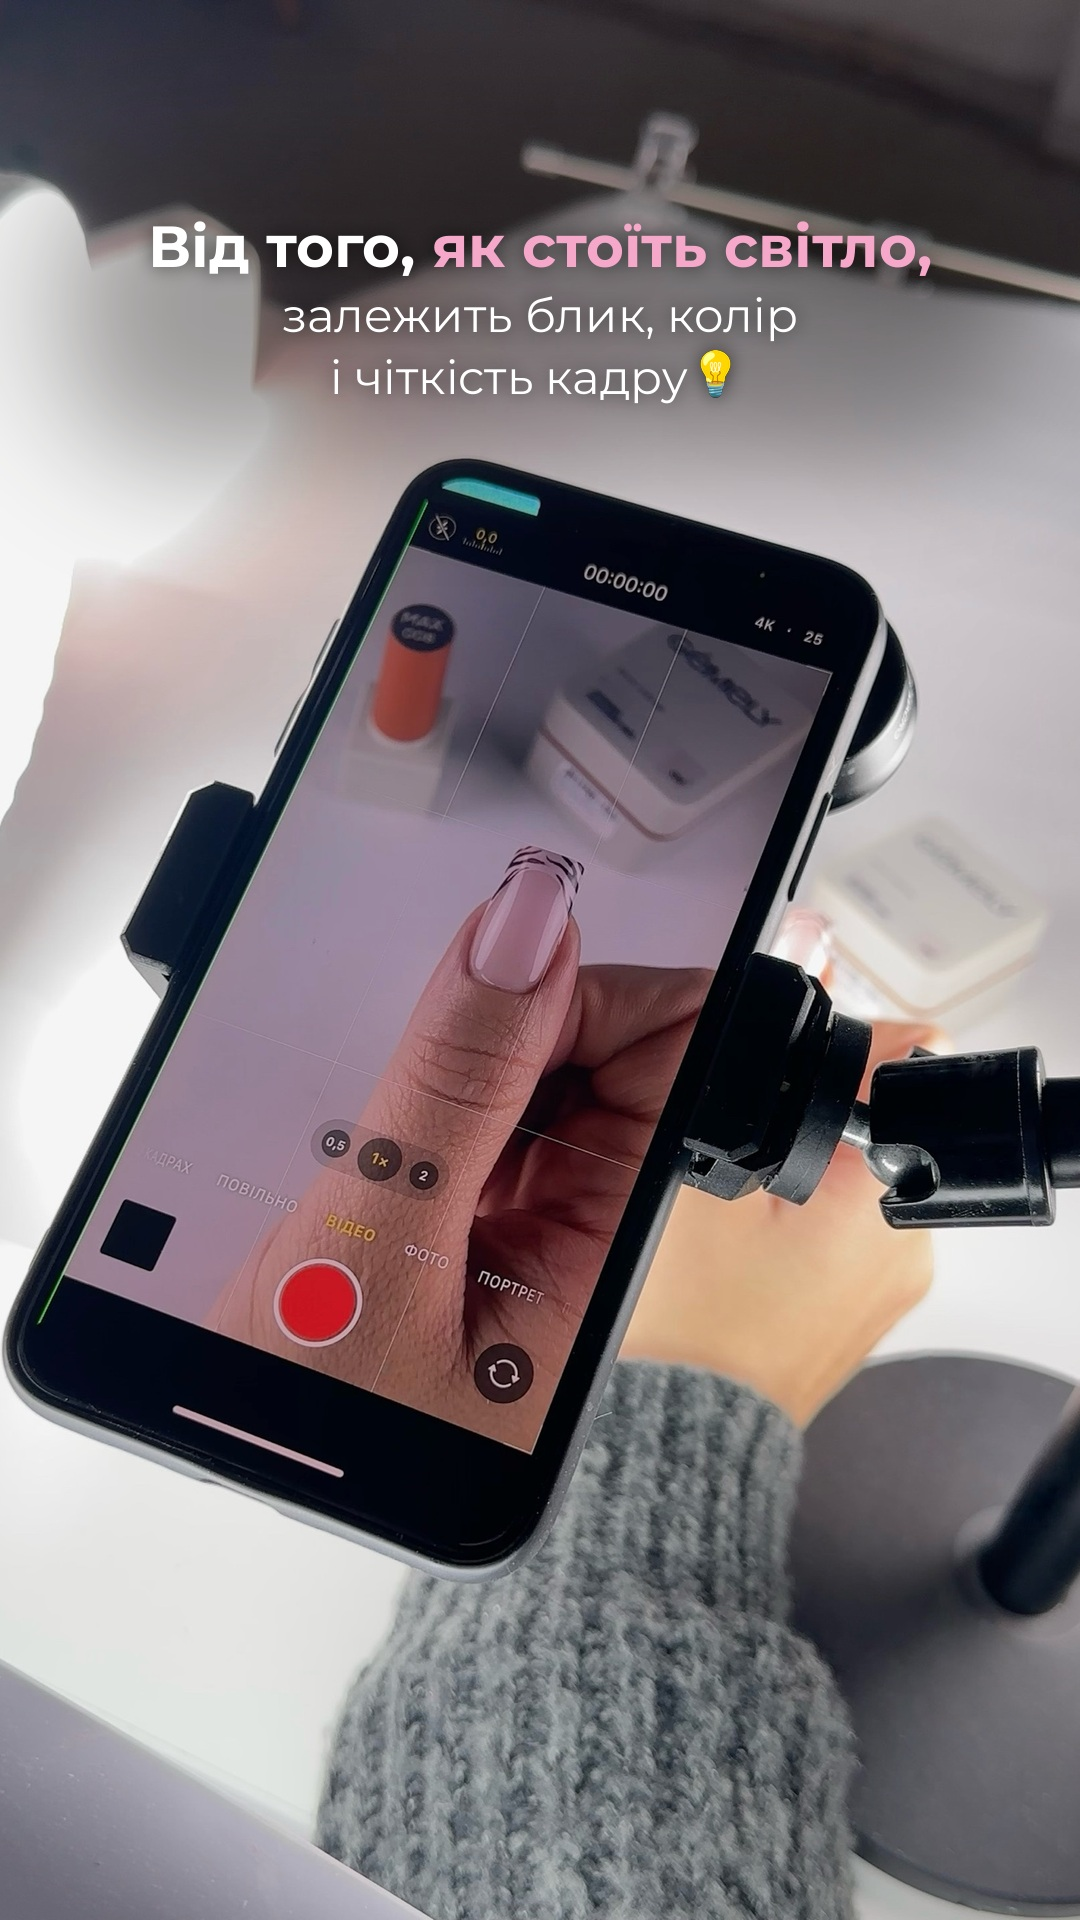
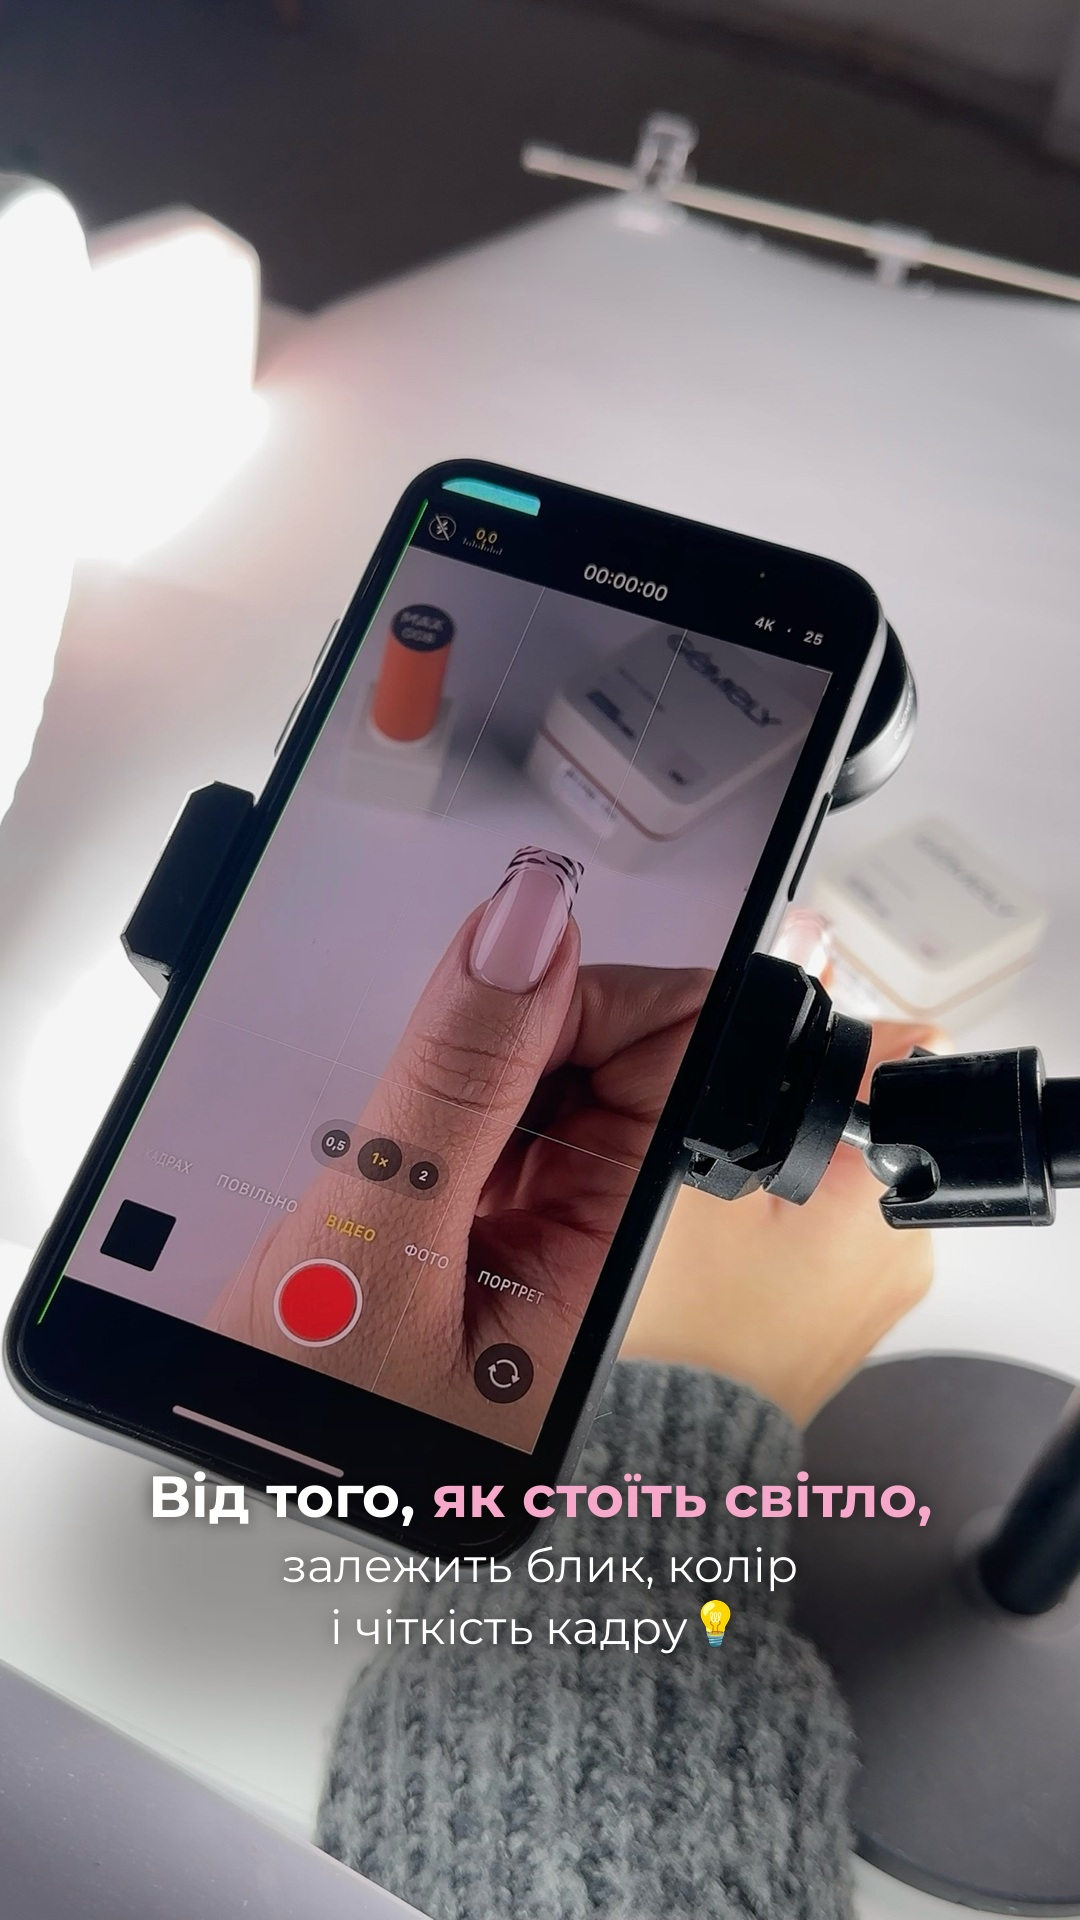
Сторітел схеми світла: перша сторі на новому фото
Claude-Session: https://claude.ai/code/session_0191xVL2hi5vHUvM1ix6pauC

Changed region(s): [[0.0, 0.0625, 0.9778, 0.2812], [0.0, 0.6875, 0.9472, 0.9062]]

diff --git a/stories/dvi_skhemy/build.py b/stories/dvi_skhemy/build.py
@@ -14,9 +14,9 @@ def block(im,y,lines,fill):
     return im
 BOLD=F(58,700); REG=F(47,400)
 # 1
-im=block(fit(f'{U}/10b2af08-image.jpg'),1470,[(1,'Що робить фото чи відео',None),(1,'манікюру *дорогим*?',None),(0,'Не лише якісно виконана робота,',None),(0,'а й правильне розташування світла','✨')],100); sv(im,1)
+im=block(fit(f'{OUT}/src_1.jpg'),165,[(1,'Що робить фото чи відео',None),(1,'манікюру *дорогим*?',None),(0,'Не лише якісно виконана робота,',None),(0,'а й правильне розташування світла','✨')],100); sv(im,1)
 # 2
-im=block(fit(f'{U}/8d6f55f4-image.jpg'),210,[(1,'Від того, *як стоїть світло*,',None),(0,'залежить блик, колір',None),(0,'і чіткість кадру','💡')],100); sv(im,2)
+im=block(fit(f'{U}/8d6f55f4-image.jpg'),1460,[(1,'Від того, *як стоїть світло*,',None),(0,'залежить блик, колір',None),(0,'і чіткість кадру','💡')],100); sv(im,2)
 # 3
 cv=Image.open(f'{R}/cover/oblozhka_dvi_skhemy.jpg').convert('RGB')
 bg=cv.filter(ImageFilter.GaussianBlur(45)); bg=Image.blend(bg,Image.new('RGB',(1080,1920),(28,22,24)),0.38)
